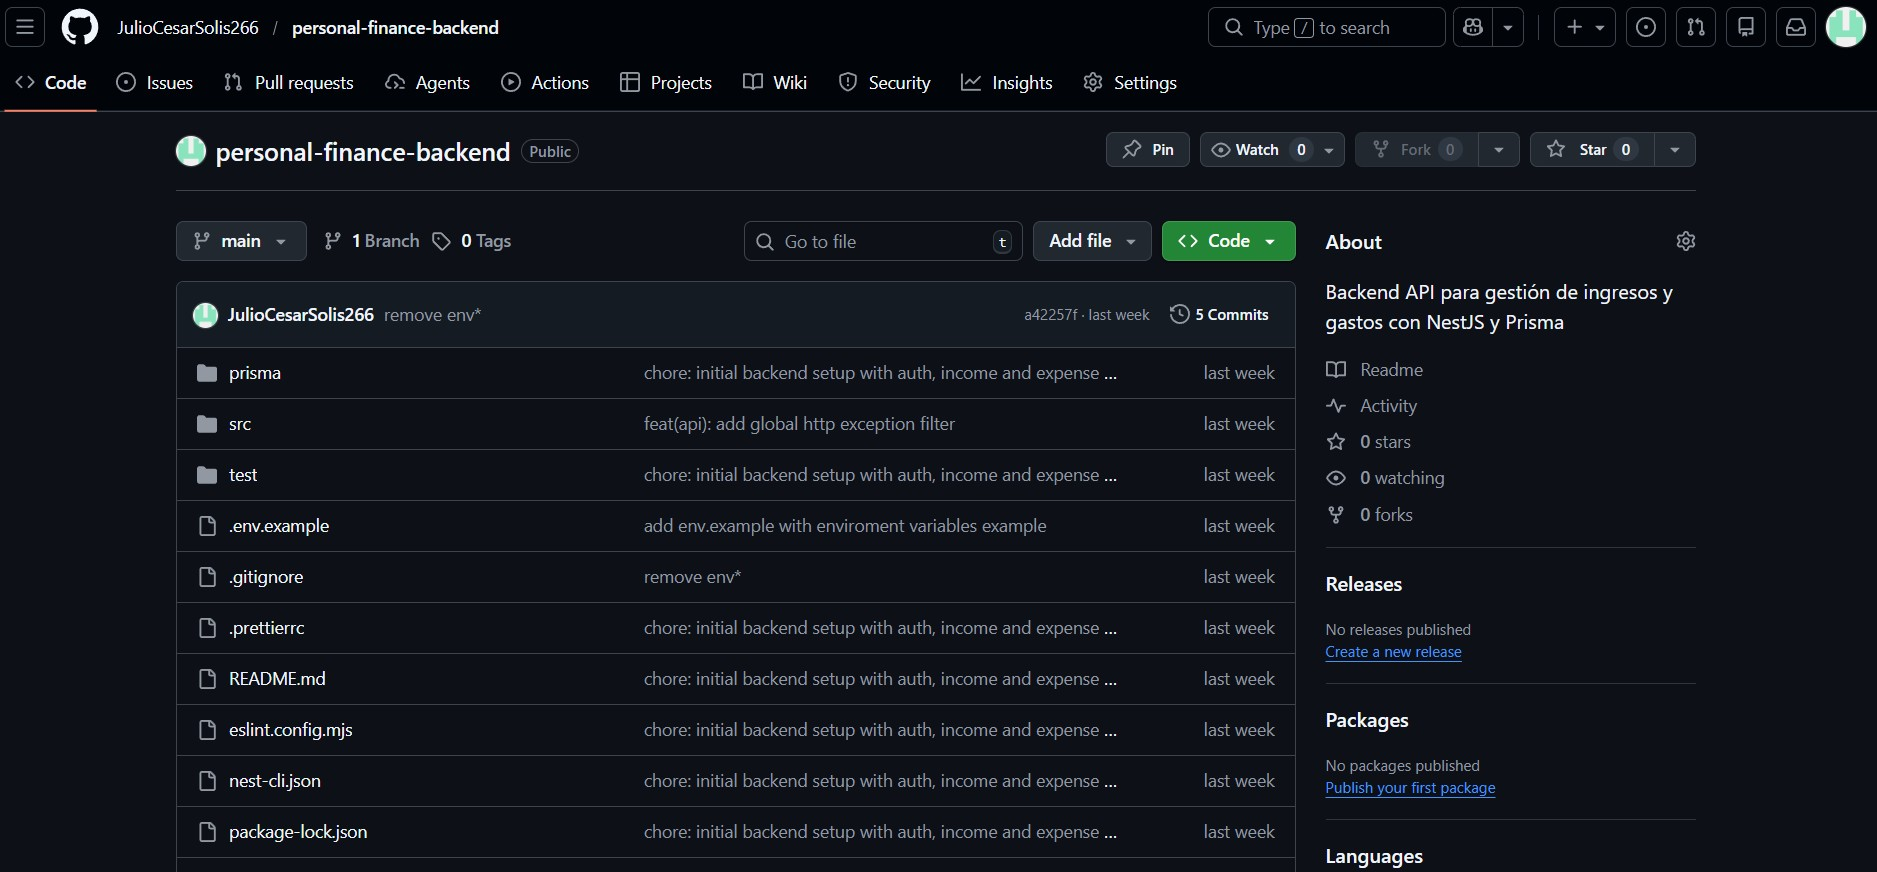
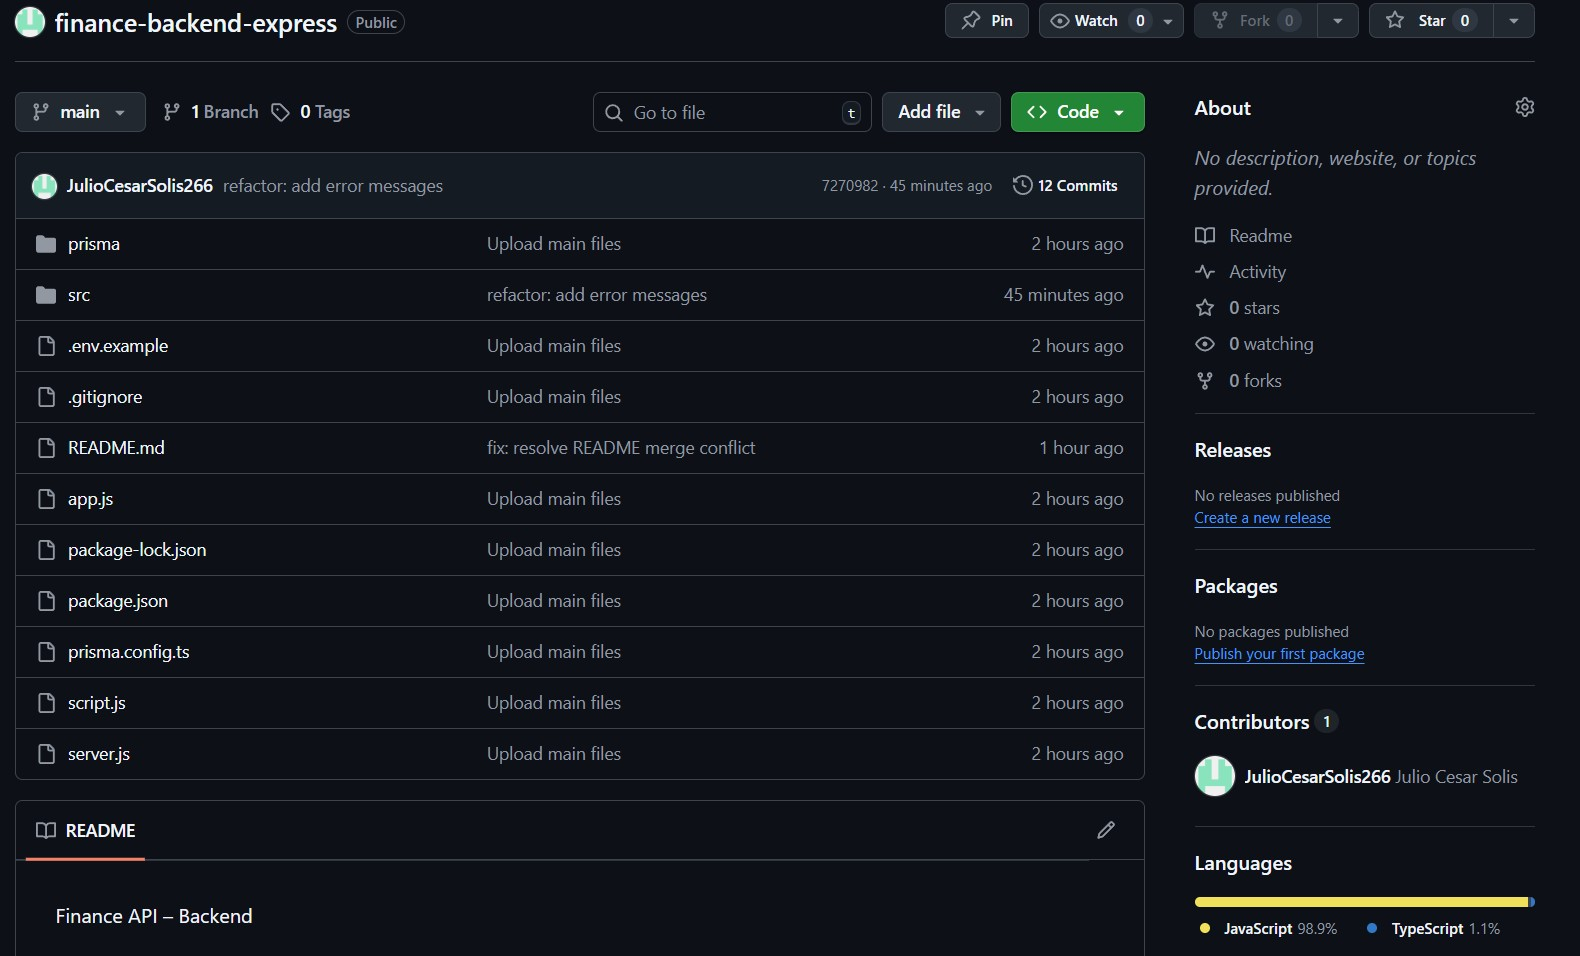
feat: add backend finance project

diff --git a/src/data/projects.js b/src/data/projects.js
@@ -1,5 +1,5 @@
 import shiftManagementImg from "../assets/shiftManagementImg.jpg";
-// import financeManagerImg from "../assets/financeManagerImg.jpg";
+import financeManagerImg from "../assets/financeManagerImg.jpg";
 
 const projects = [
   {
@@ -12,15 +12,17 @@ const projects = [
     urlDeploy: "https://turnos-manager.vercel.app/",
     urlRepoBackend: "https://github.com/JulioCesarSolis266/manicuria-backend",
   },
-  // {
-  //   id:2,
-  //   title: "Backend de finanzas personales",
-  //   description: "API REST para gestión de ingresos y gastos.",
-  //   img: financeManagerImg,
-  //   stack: ["NestJS", "TypeScript", "PostgreSQL"],
-  //   urlDeploy: null,
-  //   urlRepoBackend: "https://github.com/JulioCesarSolis266/personal-finance-backend"
-  // },
+  {
+    id: 2,
+    title: "Backend de finanzas personales",
+    description:
+      "API REST para gestión de ingresos y gastos con estructura modular.",
+    img: financeManagerImg,
+    stack: ["Express", "Prisma", "PostgreSQL", "JWT", "Swagger"],
+    urlDeploy: null,
+    urlRepoBackend:
+      "https://github.com/JulioCesarSolis266/personal-finance-backend",
+  },
 ];
 
 export default projects;
